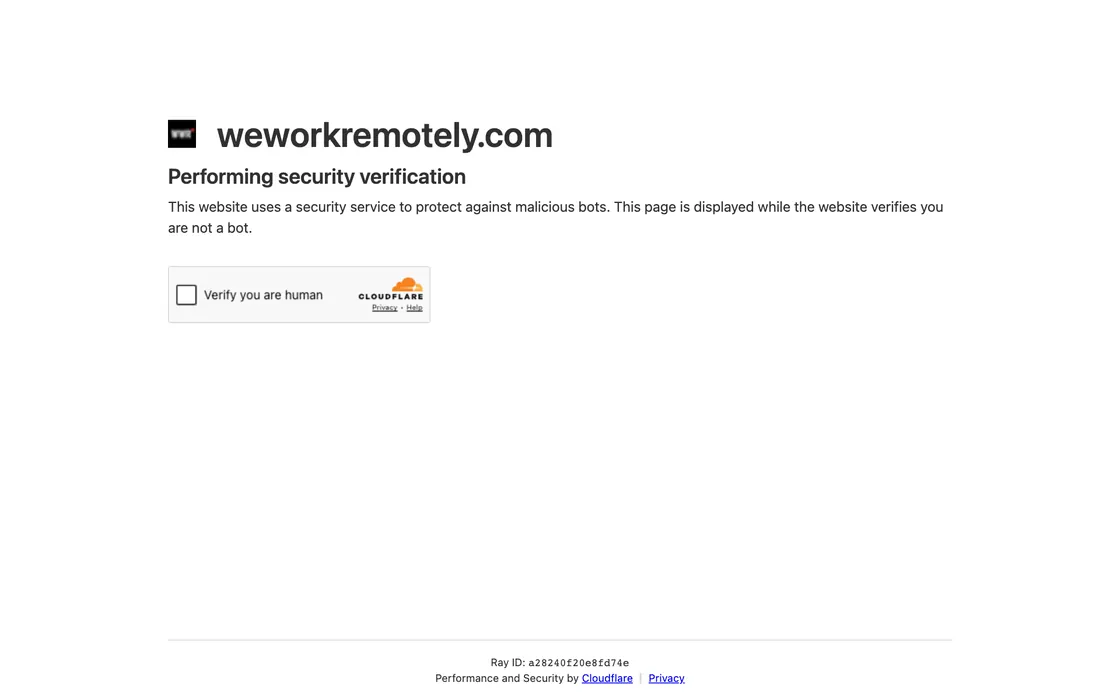
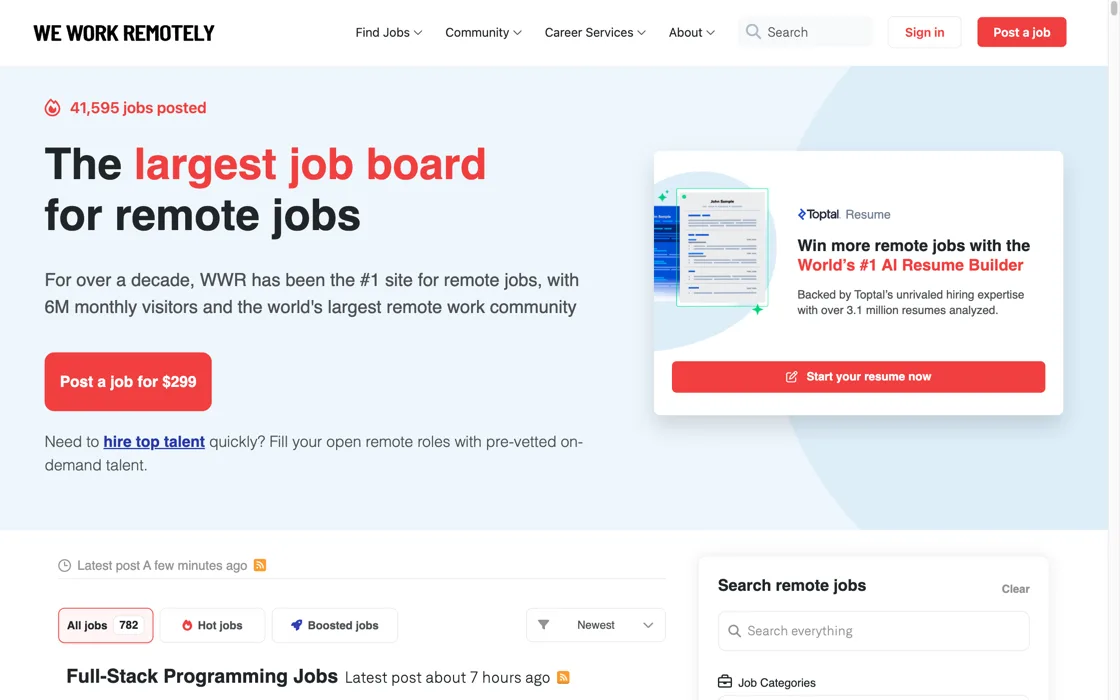
El pie ya no se corta y las capturas anti-bot se reemplazan
El titular del pie usaba --text-display puro: "Ganarte la vida en otro
mercado." medía 1650px dentro de una columna de 1016px a 1440, y el
overflow:hidden del pie la recortaba en silencio en TODO ancho de
escritorio. Se parte en tres líneas, como el hero, y ahora se mide
contra su propia columna con cqi — así el tipo se queda grande en vez
de encogerse. Sale también .foot__big, que era CSS muerto.

weworkremotely.webp y workana.webp eran la pantalla de verificación de
Cloudflare, no el sitio. Recapturadas con un navegador real a 1120x700.

Verificado a 1920/1440/1280/1024/768/390: sin desborde, sin errores de
JS, sin voseo, y los 4 pasos del método sincronizados entre la escena
fijada y la caída de móvil.

diff --git a/landing.html b/landing.html
@@ -125,7 +125,12 @@ a{color:inherit;text-decoration:none}
 
 /* ── TIPOS ── */
 h1,h2,h3,h4,.dsp{font-family:var(--font-sans);font-weight:500;letter-spacing:-.035em;line-height:1.09}  /* medido en good-fella: 96/88 */
-.dsp{font-size:var(--text-display)}
+/* El titular del pie se mide contra SU columna (9 de 12), no contra el viewport.
+   Con --text-display puro las dos líneas medían 1650px y 1083px dentro de una
+   columna de 1016px a 1440: .foot{overflow:hidden} las cortaba en silencio en
+   TODO ancho de escritorio ("…en otro merc"). El cqi es el techo real. */
+.dsp{font-size:var(--text-display)}               /* respaldo: navegador sin cqi */
+.dsp{font-size:min(var(--text-display),10.5cqi)}
 .dsp em{font-style:normal;color:var(--brand)}  /* el acento del pie, igual que el del hero */
 h1{font-size:var(--text-h1)}
 h2{font-size:var(--text-h2)}
@@ -646,7 +651,7 @@ a.pilar:hover .pilar__t{color:var(--brand)}
 
 /* ── PIE: pantalla completa ── */
 .foot{position:relative;min-height:100svh;display:flex;flex-direction:column;justify-content:space-between;padding-top:calc(var(--spacing)*48);padding-bottom:calc(var(--spacing)*28);overflow:hidden}
-.foot__big{font-size:var(--text-display);line-height:.9;letter-spacing:-.035em}
+.foot__col{container-type:inline-size}   /* el contenedor contra el que se mide .dsp */
 .foot__soc{display:flex;flex-direction:column;gap:calc(var(--spacing)*4);margin-top:calc(var(--spacing)*40)}
 .foot__soc a{font-family:var(--font-sans);font-weight:500;font-size:var(--text-h4);line-height:1.2;transition:color .3s var(--ease-out-quart)}
 .foot__soc a:hover{color:var(--brand)}
@@ -1031,9 +1036,10 @@ a.pilar:hover .pilar__t{color:var(--brand)}
 <!-- ═══ PIE — pantalla completa ═══ -->
 <footer class="foot reveal-group">
   <div class="grid-container grid-layout" style="align-content:center;flex:1">
-    <div class="sp-12 lg-sp-9">
+    <div class="sp-12 lg-sp-9 foot__col">
       <div class="dsp">
-        <span class="rv"><span>Ganarte la vida en otro mercado.</span><i class="b1"></i><i class="b2"></i></span><br>
+        <span class="rv"><span>Ganarte la vida</span><i class="b1"></i><i class="b2"></i></span><br>
+        <span class="rv"><span>en otro mercado.</span><i class="b1"></i><i class="b2"></i></span><br>
         <span class="rv"><span>Vivirla <em>donde naciste</em>.</span><i class="b1"></i><i class="b2"></i></span>
       </div>
       <div class="foot__soc fade">

diff --git a/ESTADO.md b/ESTADO.md
@@ -2,6 +2,41 @@
 
 Última actualización: **9-ago-2026**, árbol limpio en `main`.
 
+## Arreglado el 9-ago (tarde) — la página ya no tiene defectos conocidos
+
+Auditoría con Playwright a 1920/1440/1280/1024/768/390. Cero errores de JS, cero
+desborde horizontal, cero voseo. Tres cosas estaban rotas y se arreglaron:
+
+1. **El titular del pie se cortaba en TODO ancho de escritorio.** `.dsp` usaba
+   `--text-display` puro: la línea *"Ganarte la vida en otro mercado."* medía
+   **1650px dentro de una columna de 1016px** a 1440, y `.foot{overflow:hidden}`
+   la recortaba en silencio (se leía *"…en otro merc"*). La segunda línea también
+   se salía. Medido: 250–290px de exceso entre 768 y 1440.
+   **Arreglo**: el titular se parte en **tres** líneas (como el hero) y `.dsp` se
+   mide contra su propia columna — `min(var(--text-display),10.5cqi)` sobre
+   `.foot__col{container-type:inline-size}`. Así el tipo se queda grande en vez
+   de encogerse. Verificado: las 3 líneas caben en los 6 anchos.
+   De paso se borró `.foot__big`, que era CSS muerto (ningún nodo lo usaba).
+
+2. **Dos capturas de plataforma eran la pantalla anti-bots de Cloudflare**, no el
+   sitio: `weworkremotely.webp` (sale en la landing, una de las 4 tarjetas) y
+   `workana.webp` (sale en La Lista). Se recapturaron con un navegador real
+   —cargan sin desafío, no hubo que evadir nada— a los mismos 1120×700 webp.
+
+3. **La votación quedó verificada de punta a punta sin ensuciar los resultados**:
+   los 7 `data-id` de la landing coinciden con los del hub y con el `CHECK` de
+   `votos.sql`; un POST con una guía inválida devuelve `400 guia_conocida`, lo que
+   prueba endpoint + llave + política RLS de INSERT vivos **sin insertar un voto**.
+   Ese es el chequeo barato para repetir cuando se toquen los ids.
+
+También verificado: las 4 tarjetas del método están **sincronizadas** entre la
+escena fijada (`.hw__paso`) y la caída apilada de móvil (`.stack__i`) — el drift
+que `PLAN-METODO.md` advierte todavía no ocurrió.
+
+⚠ **No es un bug**: en el FAQ cada pregunta se ve **repetida en gris**. Es el
+desfile ×3 de good-fella (`.mq`, línea ~594), reproducido a propósito; al pasar
+el cursor desfila. No "arreglarlo".
+
 ▶ **Lo siguiente está planificado en `PLAN-METODO.md`**: pasar las 12 partes del método
 PVP al formato de la landing. Ese archivo tiene el diagnóstico, la decisión de layout
 abierta (A/B/C) y por dónde arrancar sin haberla tomado.
